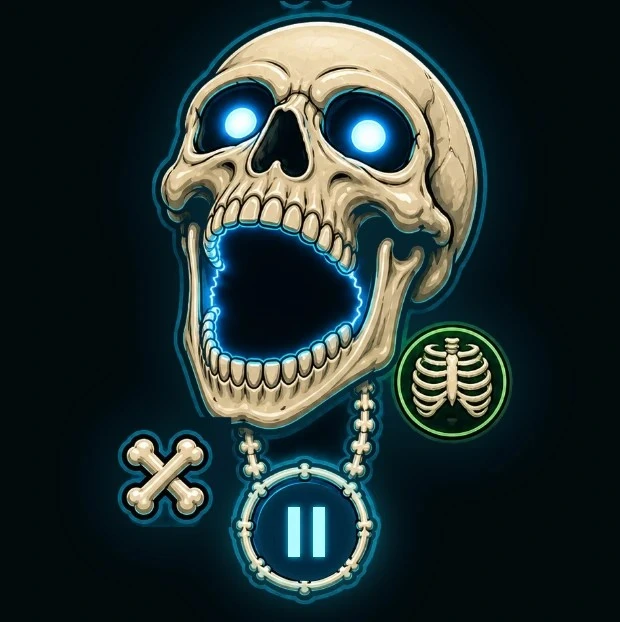
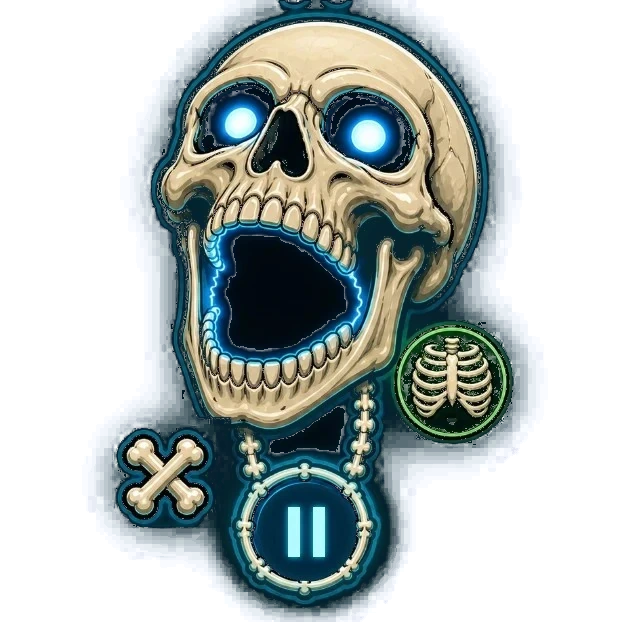
feat(skeleton): expand mini player card and refine face positioning
- Increase mini card dimensions from 320×365 to 340×390 with transparent margins
- Reposition mini face with 10px left margin and 20px top margin for proper spacing
- Add feathered mask gradient to mini face art to blend edges into transparent margin
- Update mini info section to absolute positioning below the face card
- Enhance track title styling with text stroke and improved shadow layering
- Remove dark background and glow effects from mini card container
- Adjust track title font size to 4cqw and improve text centering
- Reorder artist assignment after mini track update in track change handler

diff --git a/src/renderer/style.css b/src/renderer/style.css
@@ -1664,7 +1664,8 @@ input[type="range"]::-moz-range-thumb {
 .skeleton-skin .sk-tool:focus-visible .sk-tip { display: block; }
 
 /* Mini version = the web build's 620×622 face card. The window shrinks to
-   320×365, the shape is lifted, and the card is a plain rounded rectangle. */
+   340×390: a 20px transparent margin above the 320×321 face and a title
+   strip below it. The card itself stays transparent. */
 .skeleton-skin .sk-mini { display: none; }
 .skeleton-skin.mini-mode .sk-body { background: none; }
 .skeleton-skin.mini-mode .sk-body > :not(.sk-mini) { display: none; }
@@ -1672,14 +1673,16 @@ input[type="range"]::-moz-range-thumb {
   position: absolute;
   inset: 0;
   display: block;
-  background: #020d11;
+  background: none;
   border-radius: 3.75cqw;
-  box-shadow: 0 0 7.5cqw #00b8e230;
   overflow: hidden;
   cursor: grab;
 }
 .skeleton-skin .sk-mini-face {
-  position: relative;
+  position: absolute;
+  left: 10px;
+  top: 20px;
+  width: 320px;
   aspect-ratio: 620 / 622;
 }
 .skeleton-skin .sk-mini-art {
@@ -1689,6 +1692,11 @@ input[type="range"]::-moz-range-thumb {
   pointer-events: none;
   user-select: none;
   -webkit-user-drag: none;
+  filter: drop-shadow(0 0 4px #00dfff88);
+  /* The source crop touches its top and bottom edges; feather those edges
+     into the transparent margin instead of showing a hard cut. */
+  -webkit-mask-image: linear-gradient(to bottom, transparent 0, #000 16px, #000 calc(100% - 10px), transparent 100%);
+  mask-image: linear-gradient(to bottom, transparent 0, #000 16px, #000 calc(100% - 10px), transparent 100%);
 }
 .skeleton-skin .sk-mini-eq {
   position: absolute;
@@ -1763,17 +1771,26 @@ input[type="range"]::-moz-range-thumb {
 .skeleton-skin .sk-mini-restore { left: 63%; top: 51.6%; width: 20%; height: 20%; }
 .skeleton-skin .sk-mini-close { left: 18.6%; top: 69%; width: 16%; height: 16%; }
 .skeleton-skin .sk-mini-info {
-  padding: 1.5625cqw 5.3125cqw 4.6875cqw;
-  background: #020c10;
+  position: absolute;
+  left: 10px;
+  right: 10px;
+  top: 341px;
+  bottom: 10px;
+  display: flex;
+  align-items: center;
+  justify-content: center;
+  padding: 0 4px;
+  pointer-events: none;
 }
 .skeleton-skin .sk-mini-track {
   display: block;
-  margin: 0 0 3.125cqw;
+  max-width: 100%;
   color: #f2fbff;
-  font: bold 3.75cqw Georgia, "Times New Roman", serif;
+  font: bold 4cqw Georgia, "Times New Roman", serif;
   letter-spacing: 0.04em;
   text-align: center;
-  text-shadow: 0 0 2.1875cqw #1ddfff88;
+  -webkit-text-stroke: 0.35px #000;
+  text-shadow: 0 0 2px #000, 0 0 3px #000, 0 1px 3px #000, 0 0 2.1875cqw #1ddfff88;
   white-space: nowrap;
   overflow: hidden;
   text-overflow: ellipsis;

diff --git a/src/renderer/skins/SkeletonSkin.ts b/src/renderer/skins/SkeletonSkin.ts
@@ -25,8 +25,9 @@
  *                               the bone X, mouth EQ, eye blooms, title
  *
  * The mini card is the web build's mini player: the window shrinks to a
- * 320×365 card around the 620×622 face, and the shape is lifted so the card
- * is a plain rectangle while it is up.
+ * 340×390 card around the 620×622 face, with a transparent margin so the
+ * art is not cut by the window, and the shape is lifted so the card is a
+ * plain rectangle while it is up.
  */
 import framePlate from '../assets/skeleton-frame.webp'
 import miniFace from '../assets/skeleton-mini-face.webp'
@@ -37,7 +38,7 @@ import type { Player } from '../player/Player'
 
 /** Full 3:2 stage and the 620:622 face card the window shrinks to. */
 const STAGE_SIZE = { width: 960, height: 640, minWidth: 560, minHeight: 380 }
-const MINI_SIZE = { width: 320, height: 365, minWidth: 320, minHeight: 365 }
+const MINI_SIZE = { width: 340, height: 390, minWidth: 340, minHeight: 390 }
 
 /** Spectrum resolution — the web build's teeth line draws 24 bars */
 const BAR_COUNT = 24
@@ -323,9 +324,9 @@ export class SkeletonSkin implements Skin {
     p.onTrackChange = (track, idx) => {
       els.track.textContent = track.title
       els.track.title = track.title
-      this.setArtist(track.artist)
       els.miniTrack.textContent = track.title
       els.miniTrack.title = track.title
+      this.setArtist(track.artist)
       this.activeIndex = idx
       this.highlightPlaylistItem(idx)
     }
